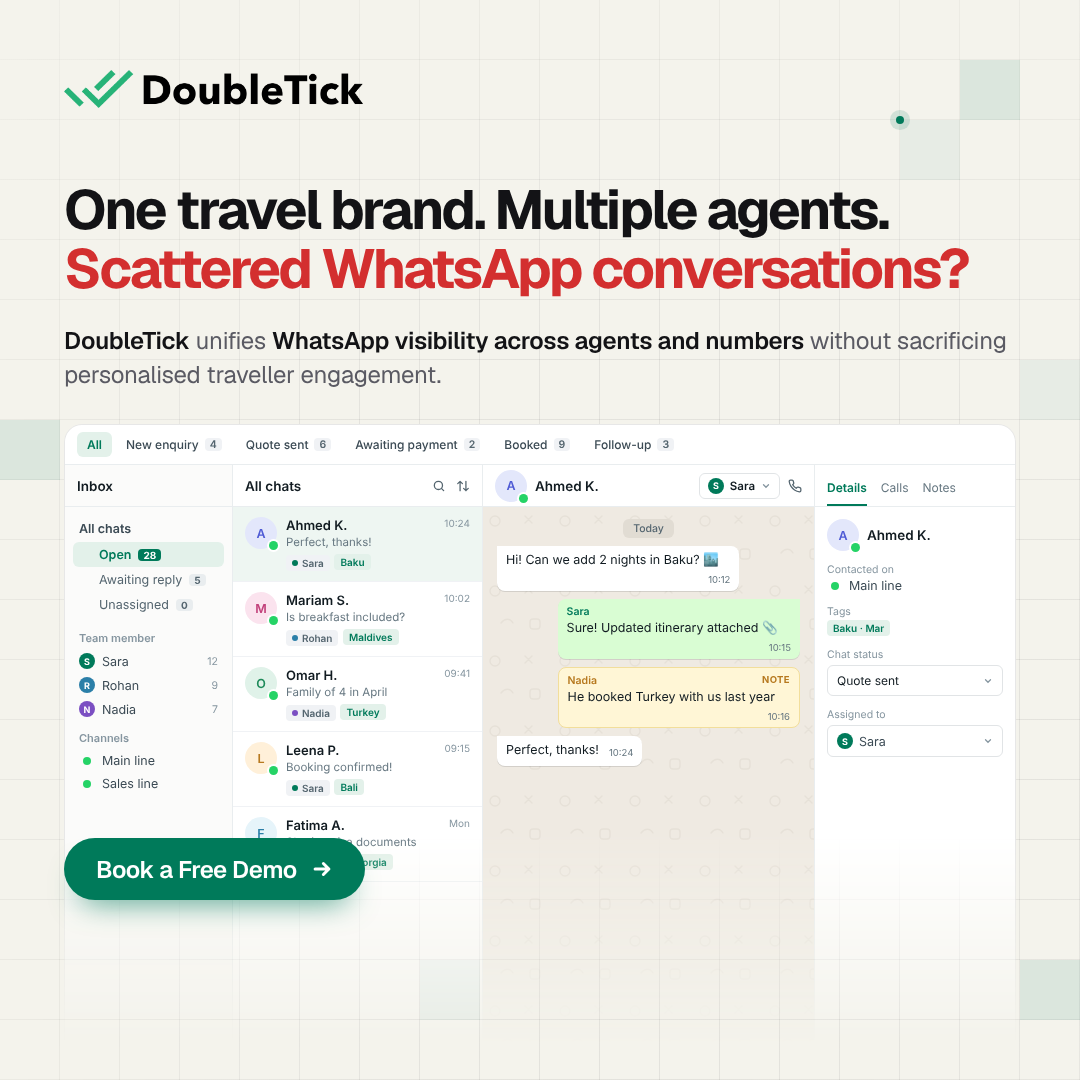
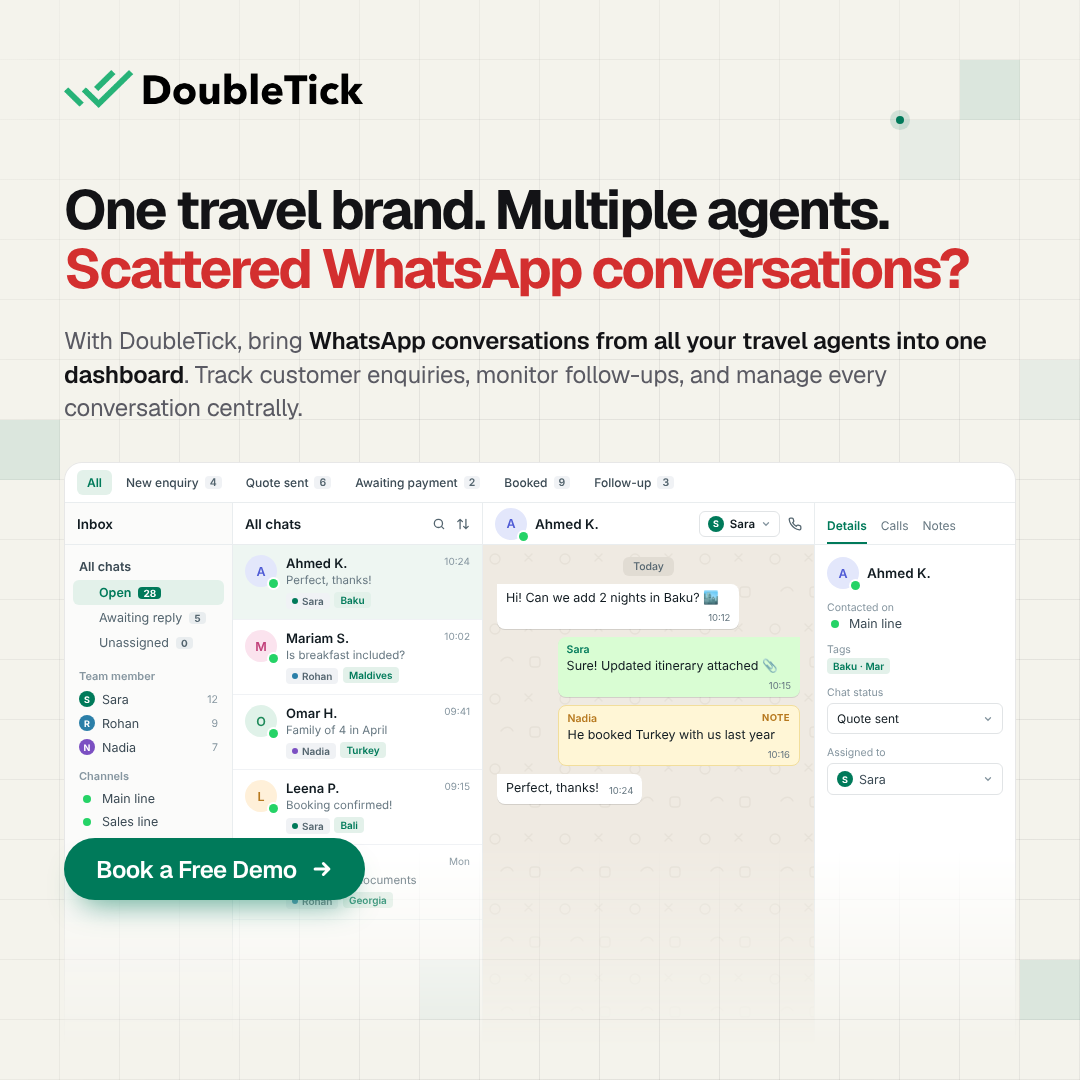
feat: new subheading for one-workspace ad
Claude-Session: https://claude.ai/code/session_01U68wzeZAut9FRgfZMxNXRM

diff --git a/ads/doubletick-one-workspace/index.html b/ads/doubletick-one-workspace/index.html
@@ -47,7 +47,7 @@
   .sub b { color: var(--ink); font-weight: 600; }
 
   /* ---------- DoubleTick inbox (close to product UI) ---------- */
-  .ui { position: absolute; left: 64px; top: 424px; width: 952px; height: 660px; border-radius: 18px 18px 0 0; background: #fff; border: 1px solid rgba(19,19,22,0.10); overflow: hidden; box-shadow: 0 20px 50px -20px rgba(19,19,22,0.25); font-family: "Inter", "Segoe UI", Helvetica, Arial, sans-serif; color: #111B21; display: flex; flex-direction: column;
+  .ui { position: absolute; left: 64px; top: 462px; width: 952px; height: 622px; border-radius: 18px 18px 0 0; background: #fff; border: 1px solid rgba(19,19,22,0.10); overflow: hidden; box-shadow: 0 20px 50px -20px rgba(19,19,22,0.25); font-family: "Inter", "Segoe UI", Helvetica, Arial, sans-serif; color: #111B21; display: flex; flex-direction: column;
     -webkit-mask-image: linear-gradient(to bottom, #000 62%, transparent 94%); }
   .tabs { height: 40px; flex: none; display: flex; align-items: center; gap: 4px; padding: 0 12px; border-bottom: 1px solid #E9EDEF; font-size: 12px; font-weight: 500; color: #3B4A54; }
   .tab { padding: 5px 10px; border-radius: 6px; display: flex; align-items: center; gap: 6px; white-space: nowrap; }
@@ -132,7 +132,7 @@
 
   <!-- copy -->
   <h1 class="headline">One travel brand. Multiple agents.<br/><span class="hl">Scattered WhatsApp conversations?</span></h1>
-  <p class="sub"><b>DoubleTick</b> unifies <b>WhatsApp visibility across agents and numbers</b> without sacrificing personalised traveller engagement.</p>
+  <p class="sub">With DoubleTick, bring <b>WhatsApp conversations from all your travel agents into one dashboard</b>. Track customer enquiries, monitor follow-ups, and manage every conversation centrally.</p>
 
   <!-- DoubleTick inbox: fades out at the bottom edge -->
   <div class="ui">
